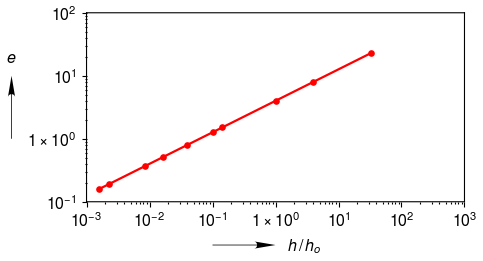
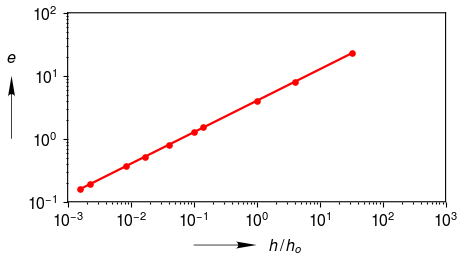
Continued developing symlog capability.  Added a test of negative values on log scaled axis.  Still need to add ability to span negative and positive values on a log scaled axis.

diff --git a/clearplot/axes.py b/clearplot/axes.py
@@ -763,6 +763,11 @@ class Axes(_Data_Axes_Base):
         self._x_scale_log_base = 10.0
         self._y_scale_log_base = 10.0
         
+        #Set the half width for linear scaled axes
+        #(These are only used with symlog or similar axis scalings.)
+        self.x_lin_half_width = 1.0
+        self.y_lin_half_width = 1.0
+        
         #Set default lims and ticks
         self._ui_x_lim = [None, None]
         self._ui_y_lim = [None, None]
@@ -981,7 +986,11 @@ class Axes(_Data_Axes_Base):
                     0.9*(b-1.0)+1.0+b/100.0, 0.1*(b-1.0))
             else:
                 minor_ticks = None
-            self.mpl_ax.set_xscale(scale, base = b, subs = minor_ticks)
+            if scale == 'symlog':
+                self.mpl_ax.set_xscale(scale, base = b, subs = minor_ticks, \
+                                       linthresh = self.x_lin_half_width)
+            else:
+                self.mpl_ax.set_xscale(scale, base = b, subs = minor_ticks)
             self._select_and_set_x_lim_and_tick(self._ui_x_lim[:], self._ui_x_tick)
             #If using a base e logarithm, label major ticks using 'e^z' rather
             #than 2.718281828459045^z
@@ -1037,10 +1046,11 @@ class Axes(_Data_Axes_Base):
                     0.9*(b-1.0)+1.0+b/100.0, 0.1*(b-1.0))
             else:
                 minor_ticks = None
-            if scale == 'log':
-                self.mpl_ax.set_yscale(scale, base = b, subs = minor_ticks)
+            if scale == 'symlog':
+                self.mpl_ax.set_yscale(scale, base = b, subs = minor_ticks, \
+                                       linthresh = self.y_lin_half_width)
             else:
-                self.mpl_ax.set_yscale(scale, base = b, subs = minor_ticks, linthresh = 1e-12)
+                self.mpl_ax.set_yscale(scale, base = b, subs = minor_ticks)
             self._select_and_set_y_lim_and_tick(self._ui_y_lim[:], self._ui_y_tick)
             #If using a base e logarithm, label major ticks using 'e^z' rather
             #than 2.718281828459045^z
@@ -1528,10 +1538,10 @@ class Axes(_Data_Axes_Base):
         #(The distance beyond the limit must be calculated differently if 
         #axis has a log scale instead of a normal linear scale.)
         if ax_scale == 'log' or ax_scale == 'symlog':
-            diff = [_np.log(lims[0])/_np.log(ax_log_base) - \
-                _np.log(_np.nanmin(x))/_np.log(ax_log_base), \
-                _np.log(_np.nanmax(x))/_np.log(ax_log_base) - \
-                _np.log(lims[1])/_np.log(ax_log_base)]
+            diff = [_np.sign(lims[0]) * _np.log(_np.abs(lims[0]))/_np.log(ax_log_base) - \
+                _np.sign(_np.nanmin(x)) * _np.log(_np.abs(_np.nanmin(x)))/_np.log(ax_log_base), \
+                _np.sign(_np.nanmax(x)) * _np.log(_np.abs(_np.nanmax(x)))/_np.log(ax_log_base) - \
+                _np.sign(lims[1]) * _np.log(_np.abs(lims[1]))/_np.log(ax_log_base)]
         else:
             diff = [lims[0] - _np.nanmin(x), _np.nanmax(x) - lims[1]]
         if diff[0] < tick * self.exceed_lim:
@@ -1632,7 +1642,7 @@ class Axes(_Data_Axes_Base):
     def x_tick_list(self, tick_list):
         self._ui_x_tick_list = tick_list
         tick_list = _utl.gen_tick_list(tick_list, self.x_lim, self.x_tick, \
-            self.x_scale, self._y_scale_log_base)
+            self.x_scale, self._x_scale_log_base)
         self.mpl_ax.set_xticks(tick_list)
         
     @property

diff --git a/clearplot/utilities.py b/clearplot/utilities.py
@@ -632,8 +632,9 @@ def find_candidate_lim_and_tick(ui_lim, ui_tick, data_lim, \
                 across negative and positive numbers""")
 
         #Calculate the number of tick marks
-        n_tick_c = (_np.log(lim_c[0][1]) / _np.log(ax_log_base) \
-            - _np.log(lim_c[0][0]) / _np.log(ax_log_base)) / tick_c
+        #(abs and sign functions are needed to accommodate symlog axes)
+        n_tick_c = (_np.sign(lim_c[0][1]) * _np.log(_np.abs(lim_c[0][1])) / _np.log(ax_log_base) \
+            - _np.sign(lim_c[0][0]) * _np.log(_np.abs(lim_c[0][0])) / _np.log(ax_log_base)) / tick_c
         
     return(lim_c, tick_c, n_tick_c)
     
@@ -723,9 +724,13 @@ def gen_tick_list(ui_tick_list, lim, tick, scale, log_base):
         if scale == 'log' or scale == 'symlog':
             if _np.sign(lim[0]) == _np.sign(lim[1]):
                 #(range omits the last entry so we need to nudge it a bit)
+                #(round off error can cause tick marks to be labeled as 
+                #1.0 x 10^0 instead of 10^0, so we round the exponent to the 
+                #nearest integer)
                 log_tick_list = _np.arange(\
                     _np.log(_np.abs(lim[0])) / _np.log(log_base), \
-                    _np.log(_np.abs(lim[1])) / _np.log(log_base) +  _np.sign(lim[0]) * tick/100.0, _np.sign(lim[0]) * tick)
+                    _np.log(_np.abs(lim[1])) / _np.log(log_base) +  _np.sign(lim[0]) * tick/100.0, \
+                    _np.sign(lim[0]) * tick).round()
                 tick_list = _np.sign(lim[0]) * log_base**log_tick_list
             else:
                 raise IOError("ERROR: tick mark lists for log axes spanning zero have not been implemented")

diff --git a/tests/in_development/symlog_axes/symlog_axes.py b/tests/in_development/symlog_axes/symlog_axes.py
@@ -1,0 +1,21 @@
+# -*- coding: utf-8 -*-
+"""
+Created on Sat Apr 18 15:19:31 2015
+
+@author: Ben
+"""
+import clearplot.figure as cp_fig
+import numpy as np
+
+x = -np.flipud(np.logspace(1,5,5))
+y = -4.0 * np.abs(x)**0.5 
+
+fig = cp_fig.Figure()
+ax = fig.add_axes()
+ax.x_scale = 'symlog'
+ax.y_scale = 'symlog'
+ax.x_label = ['h\,/\,h_o']
+ax.y_label = ['e']
+ax.plot(x, y, marker_shapes = 'o', marker_edge_widths = 0)
+fig.auto_adjust_layout()
+fig.save('symlog_axes.pdf')
